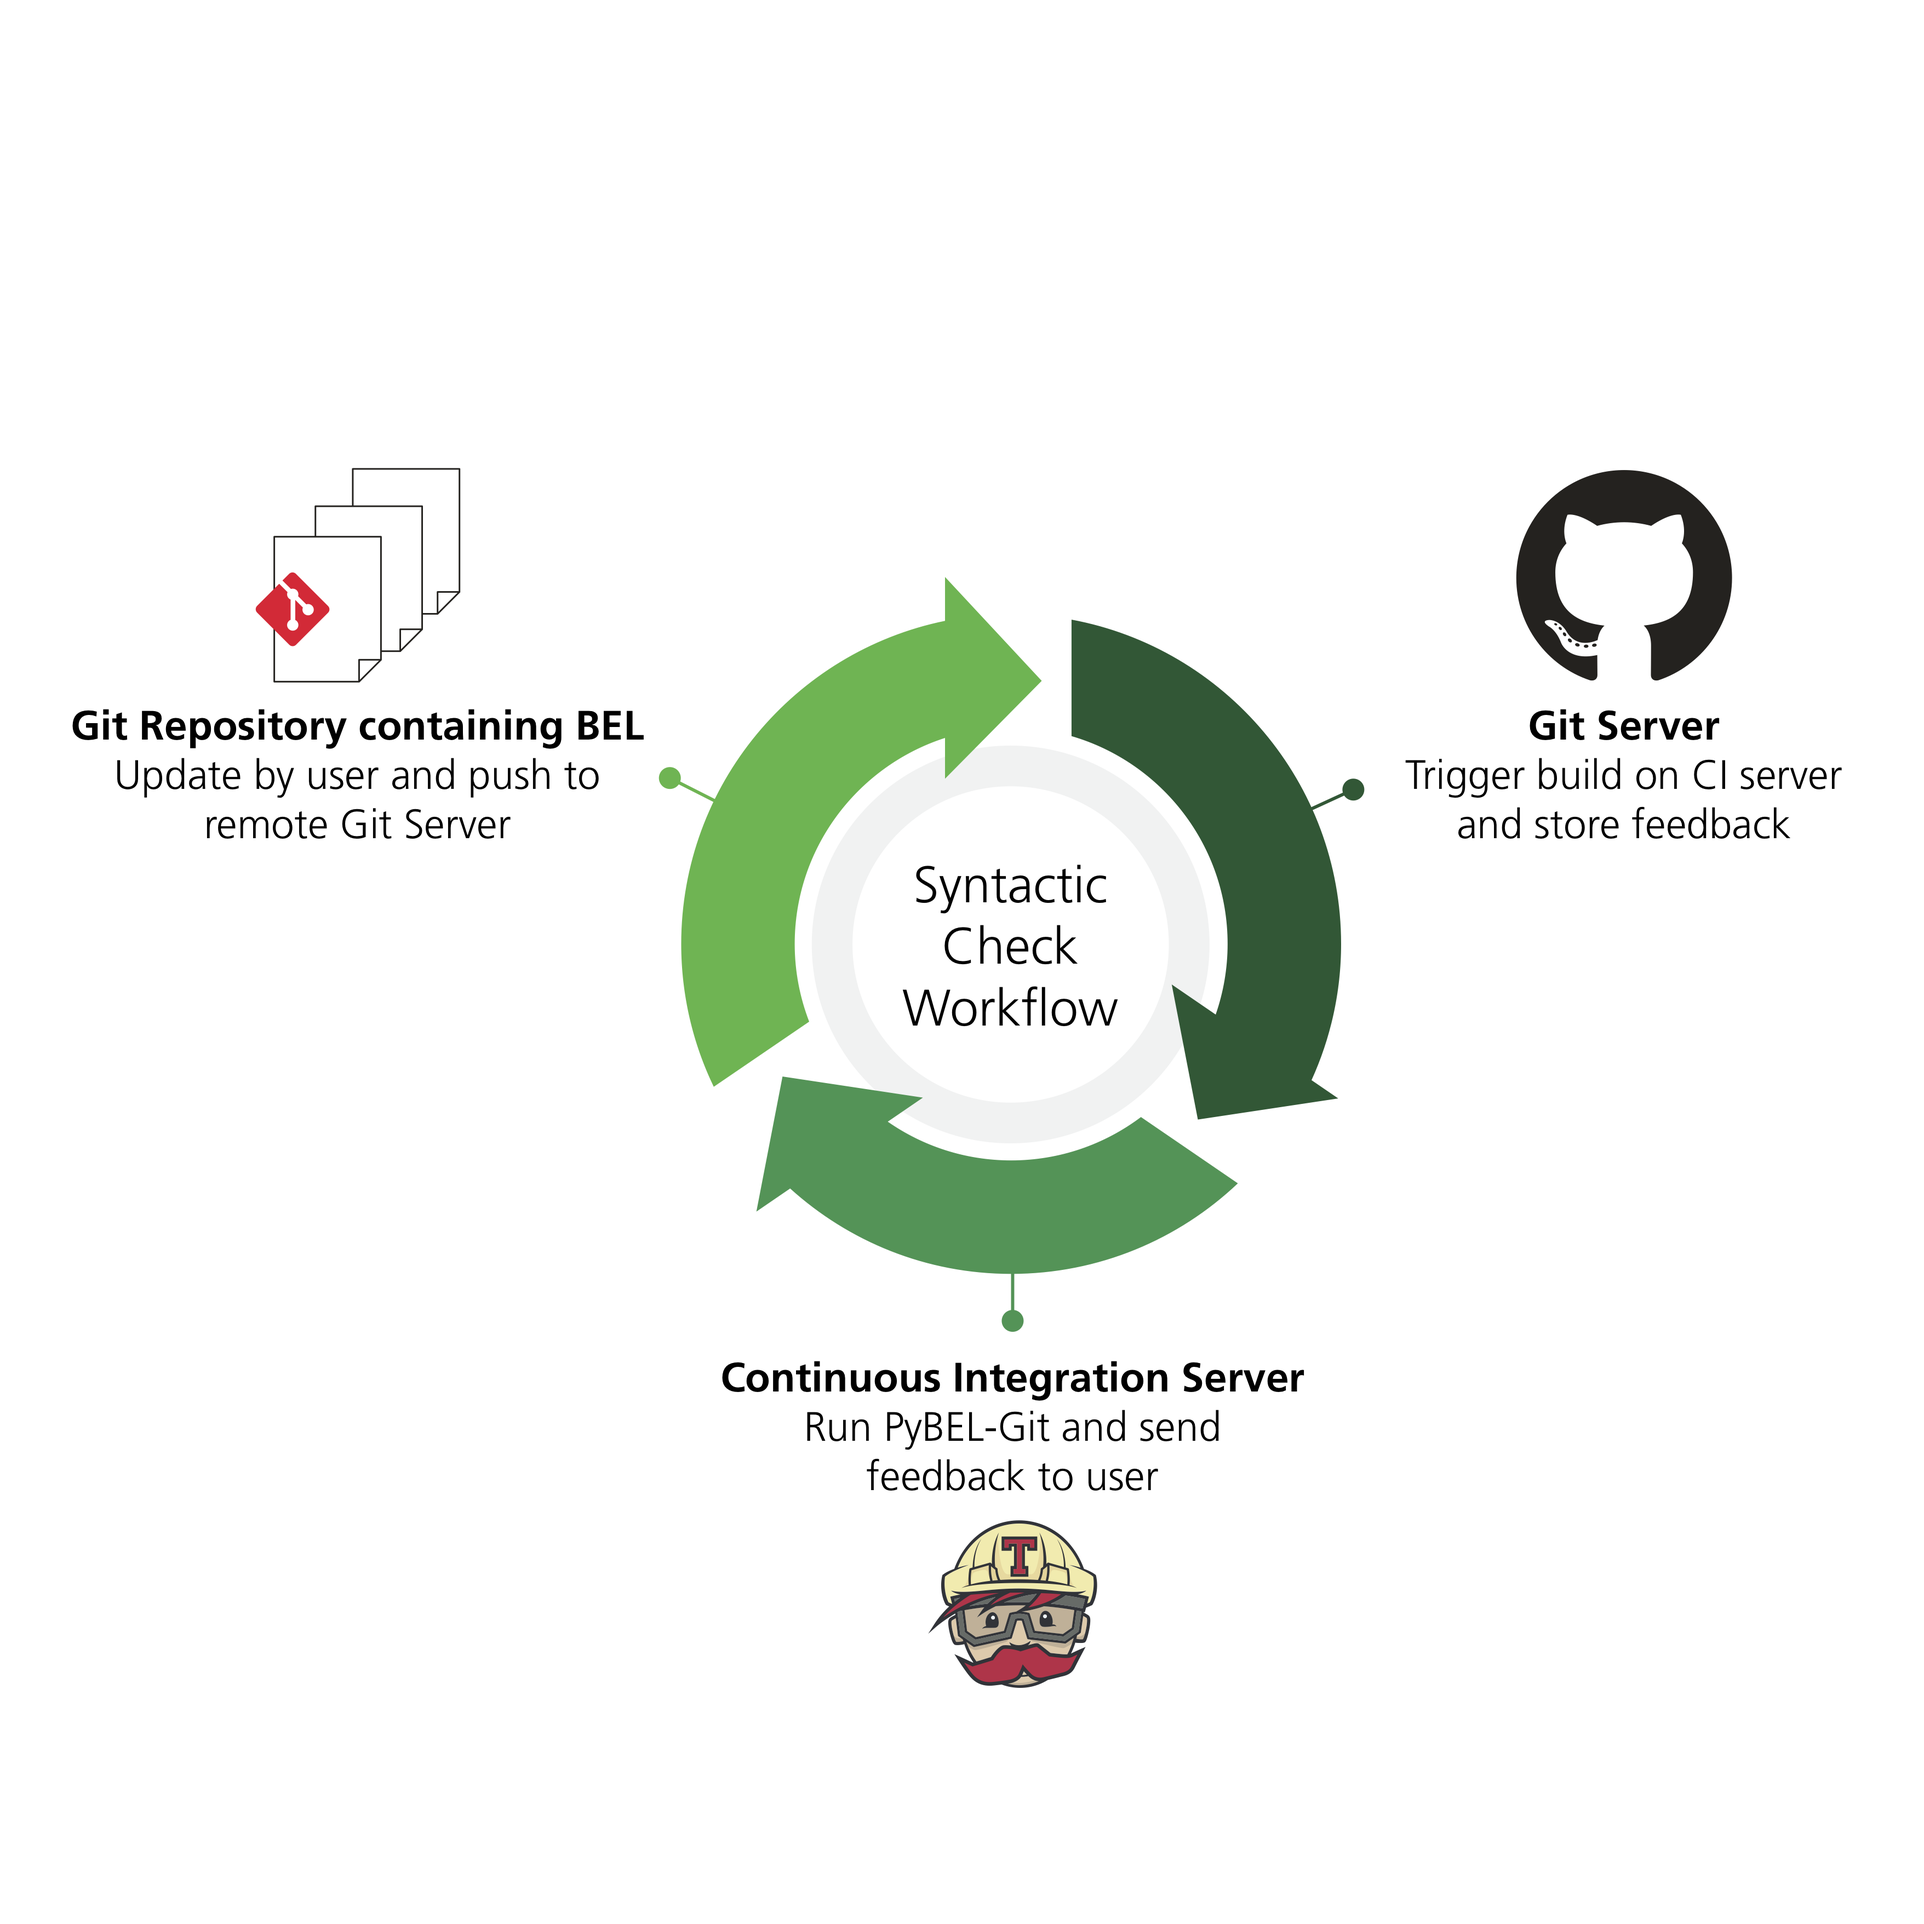
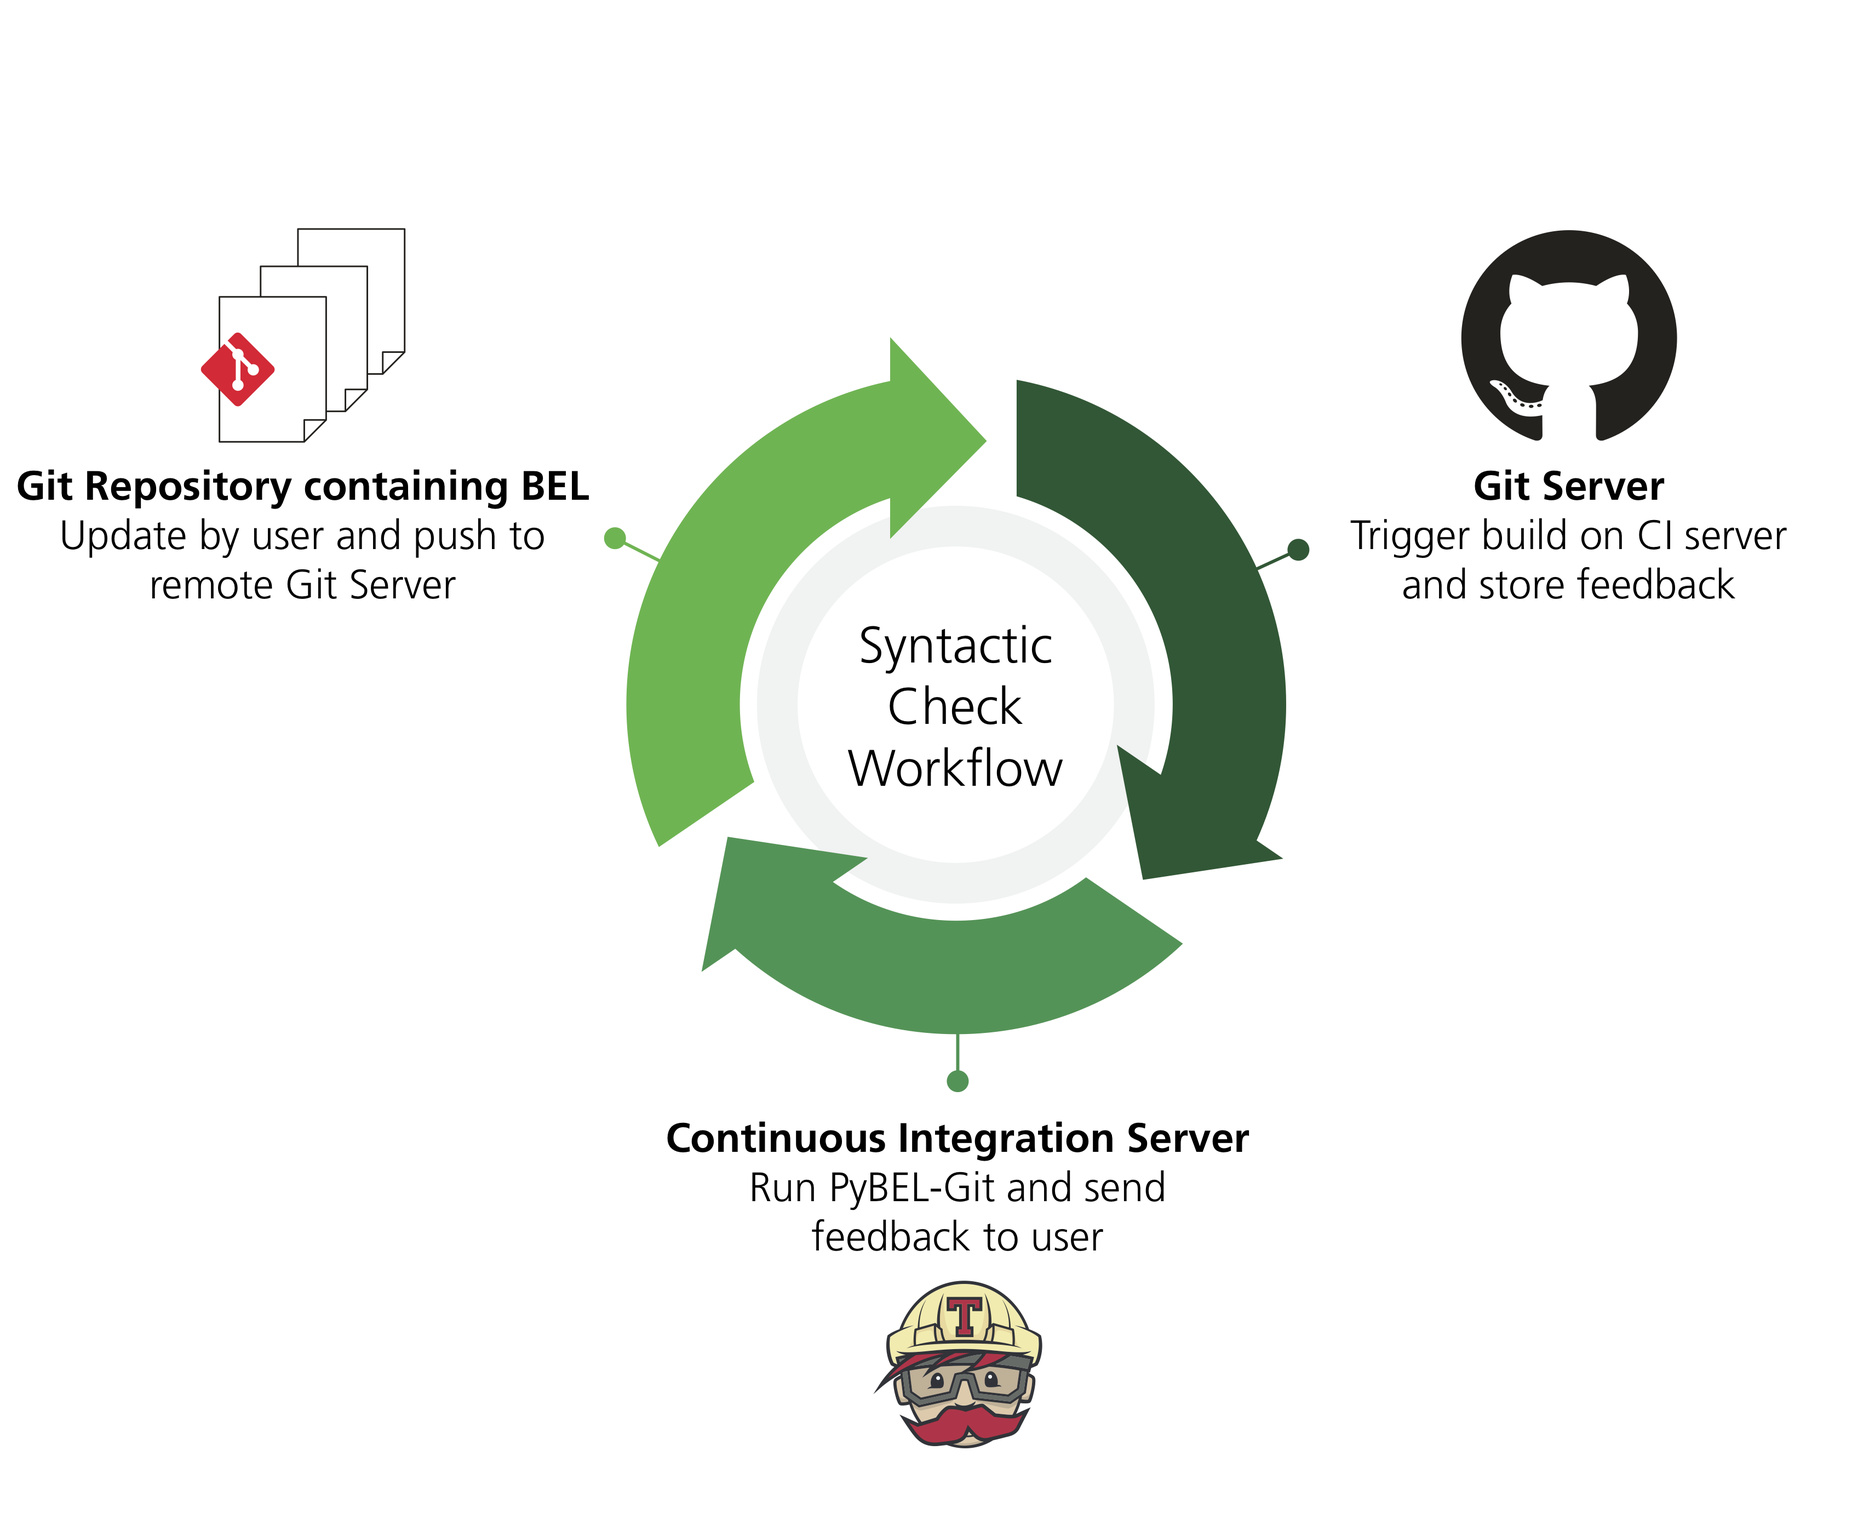
Fix sizes

Changed region(s): [[0.0, 0.1551, 0.9631, 0.9618], [0.466, 0.5895, 0.5281, 0.6205], [0.1864, 0.2172, 0.2175, 0.2482]]

diff --git a/README.md b/README.md
@@ -39,7 +39,7 @@ elucidating disease-specific, mechanistic insight. BEL Commons comprises five co
 validator, (ii) user rights and project management, (iii) the query builder, (iv) the biological network explorer and 
 (iv) the analytical service.
 
-<img src="img/bel-commons-components.png" alt="BEL Commons Components" width="424" height="283"/>
+<img src="img/bel-commons-components.png" alt="BEL Commons Components" width="610" height="407"/>
 
 #### References
 
@@ -55,7 +55,7 @@ We developed a workflow using [git](https://git-scm.com), [GitHub](https://githu
 extension](https://github.com/pybel/pybel-git) in order to identify and address syntactical issues in BEL documents 
 in a Continuous Integration setting.
 
-<img src="img/curation-workflow.png" alt="Curation Workflow" width="424" height="424"/>
+<img src="img/curation-workflow.png" alt="Curation Workflow" width="610" height="496"/>
 
 - [Zenodo Reference](http://doi.org/10.5281/zenodo.2508180): Hoyt, C. T. (2018, December 22). pybel/pybel-git v0.0.2 (Version v0.0.2). Zenodo. http://doi.org/10.5281/zenodo.2508180
 - Source Code: [https://github.com/pybel/pybel-git](https://github.com/pybel/pybel-git)
@@ -87,7 +87,7 @@ a novel mechanism enrichment algorithm.
 
 ### Rational Enrichment of NeuroMMSig
 
-<img src="img/enrichment-workflow.png" alt="Enrichment Workflow" width="424" height="424"/>
+<img src="img/enrichment-workflow.png" alt="Enrichment Workflow" width="610" height="499"/>
 
 #### Mechanism Enrichment Server References
 
@@ -105,11 +105,11 @@ nicotoinic receptor biology, and proteostasis. They can be downloaded and handle
 
 ### Bio2BEL
 
-<img src="img/bio2bel-logo.png" alt="Bio2BEL Logo" height="45px" width="39px" style="float: left; margin: 5px" /> 
+<img src="img/bio2bel-logo.png" alt="Bio2BEL Logo" height="39px" width="45px" style="float: left; margin: 5px" /> 
 BEL is well-suited as an biomedical knowledge integration standard as it has precise semantics and is extensible. We
 generated several reusable packages for converting and harmonizing databases across modes and scales in BEL.
 
-<img src="img/bio2bel-components.png" alt="Bio2BEL Components" width="424" height="118"/>
+<img src="img/bio2bel-components.png" alt="Bio2BEL Components" width="610" height="170"/>
 
 #### References
 
